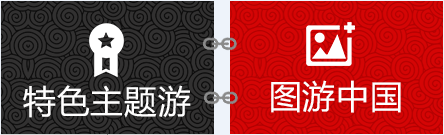
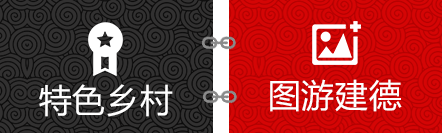
111

diff --git a/src/routes/Home.js b/src/routes/Home.js
@@ -7,6 +7,11 @@ import Foot from '../components/MainLayout/Foot';
 const imgObj = {
   headImg: require('../images/head.jpg'),
   content1Img: require('../images/content1.jpg'),
+  content12Img: require('../images/22.png'),
+  content13Img: require('../images/33.png'),
+  content14Img: require('../images/44.png'),
+  content15Img: require('../images/55.png'),
+  content16Img: require('../images/66.png'),
   content2Img: require('../images/content2.jpg'),
   content3Img: require('../images/content3.png'),
   con1Img: require('../images/con1.png'),
@@ -48,12 +53,12 @@ class Home extends React.Component {
     const { history } = this.props;
 
     const content1 = [
-      {name: '岳家村'},
-      {name: '高丘村'},
-      {name: '浪彩村'},
-      {name: '上塘村'},
-      {name: '七岭脚村'},
-      {name: '高垣村'},
+      {name: '岳家村',img: imgObj.content1Img},
+      {name: '高丘村',img: imgObj.content12Img},
+      {name: '浪彩村',img: imgObj.content13Img},
+      {name: '上塘村',img: imgObj.content14Img},
+      {name: '七岭脚村',img: imgObj.content15Img},
+      {name: '高垣村',img: imgObj.content16Img},
     ];
 
     const content2 = [
@@ -106,7 +111,7 @@ class Home extends React.Component {
             <div className={styles.gallery}>
               {
                 content1.map(x=><div key={x.name} className={styles.item}>
-                  <img src={imgObj.content1Img} />
+                  <img src={x.img} />
                   <Link
                     id='cover'
                     className={styles.cover}

diff --git a/src/routes/Home.less b/src/routes/Home.less
@@ -1,15 +1,19 @@
 @import "../utils/default.less";
-@ItemHeight: 226.3px;
+@ItemHeight: 239.2px;
+
+.flexColumn{
+  display: flex;
+  flex-direction: column;
+  align-items: center;
+  justify-content: center;
+}
 
 .head{
   width: 100%;
-  display: flex;
-  flex-direction: column;
+  composes: flexColumn;
   justify-content:space-between;
-  align-items: center;
   height: 890px;
-  background: url('../images/head.jpg') no-repeat;
-  // background-size: 100% 100%;
+  background: url('../images/head.jpg') no-repeat center center;
   .input{
     width: @mainWidth;
     height: 120px;
@@ -169,8 +173,8 @@
           border: 0;
           position: absolute;
           z-index: 5;
-          margin-top: -55px;
-          font-size: 20px;
+          margin-top: -62px;
+          font-size: 24px;
           padding: 10px 0;
           background: rgba(0, 0, 0, 0.6);
         }
@@ -205,7 +209,7 @@
           font-size: 18px;
           font-weight: 500;
           color: #000;
-          border: 1px solid #666;
+          border: 1px solid #999;
           border-top: 0;
         }
         .li{

diff --git a/src/components/MainLayout/Foot.js b/src/components/MainLayout/Foot.js
@@ -37,7 +37,7 @@ const Foot = function({
       <section className={styles.foot1}><img src={imgObj.footImg}/></section>
       <section className={styles.foot2}>
         <div className={styles.block}>
-          <p className={styles.title}>特色景点</p>
+          <p className={styles.title}>特色乡村</p>
           <div className={styles.ul}>
             {
               footer1.map((x,i)=><Link key={x.name} className={i%2==1?styles.li2:styles.li} to={`/village`}>{x.name}</Link>)
@@ -45,7 +45,7 @@ const Foot = function({
           </div>
         </div>
         <div className={styles.block}>
-          <p className={styles.title}>图游中国</p>
+          <p className={styles.title}>图游建德</p>
           <div className={styles.map}>
             <img src={imgObj.mapImg}/>
           </div>

diff --git a/src/routes/admin/Upload.js b/src/routes/admin/Upload.js
@@ -3,8 +3,8 @@ import { Icon, Modal, Input, message } from 'antd';
 // import { observable, computed, useStrict, action, autorun } from 'mobx';
 import { observer, inject } from 'mobx-react';
 import styles from './common.css';
-import UploadFileItem from '../components/upload/UploadFile';
-import { addFile } from '../actions/index';
+import UploadFileItem from '../../components/upload/UploadFile';
+import { addFile } from '../../actions/index';
 
 @inject('upload','uiState') @observer
 class UploadFile extends React.Component {

diff --git a/src/routes/App.js b/src/routes/App.js
@@ -2,8 +2,9 @@ import React from 'react';
 import { Router, Route, Switch, Redirect } from 'react-router-dom';
 import { observer, inject } from 'mobx-react';
 import AdminLayout from '../components/AdminLayout/MainLayout';
-import Upload from './Upload';
-import Login from './Login';
+// 管理员
+import Upload from './admin/Upload';
+import Login from './admin/Login';
 
 import Home from './Home';
 import Village from './Village';

diff --git a/src/routes/admin/Login.js b/src/routes/admin/Login.js
@@ -2,7 +2,7 @@ import React, { Component } from 'react';
 import { message} from 'antd';
 import history from 'history';
 import styles from './Login.less';
-import LoginForm from '../components/Login/LoginForm';
+import LoginForm from '../../components/Login/LoginForm';
 //const [home1] = [require('../images/login.jpg')];
 
 class Login extends React.Component {

diff --git a/src/index.less b/src/index.less
@@ -1,7 +1,8 @@
-@import "./utils/default";
+@import "./utils/default.less";
 
 html, body, #root, #app {
   height: 100%;
+  min-width: @mainWidth;
 }
 
 .hidden{display: none;}

diff --git a/src/utils/default.less b/src/utils/default.less
@@ -1,7 +1,7 @@
 @max-width : 1200px;
 @mid-width : 1000px;
 @min-width : 600px;
-@mainWidth: 900px;
+@mainWidth: 950px;
 
 @bg-color      : #fff;
 @bg-color-left : #404040;
